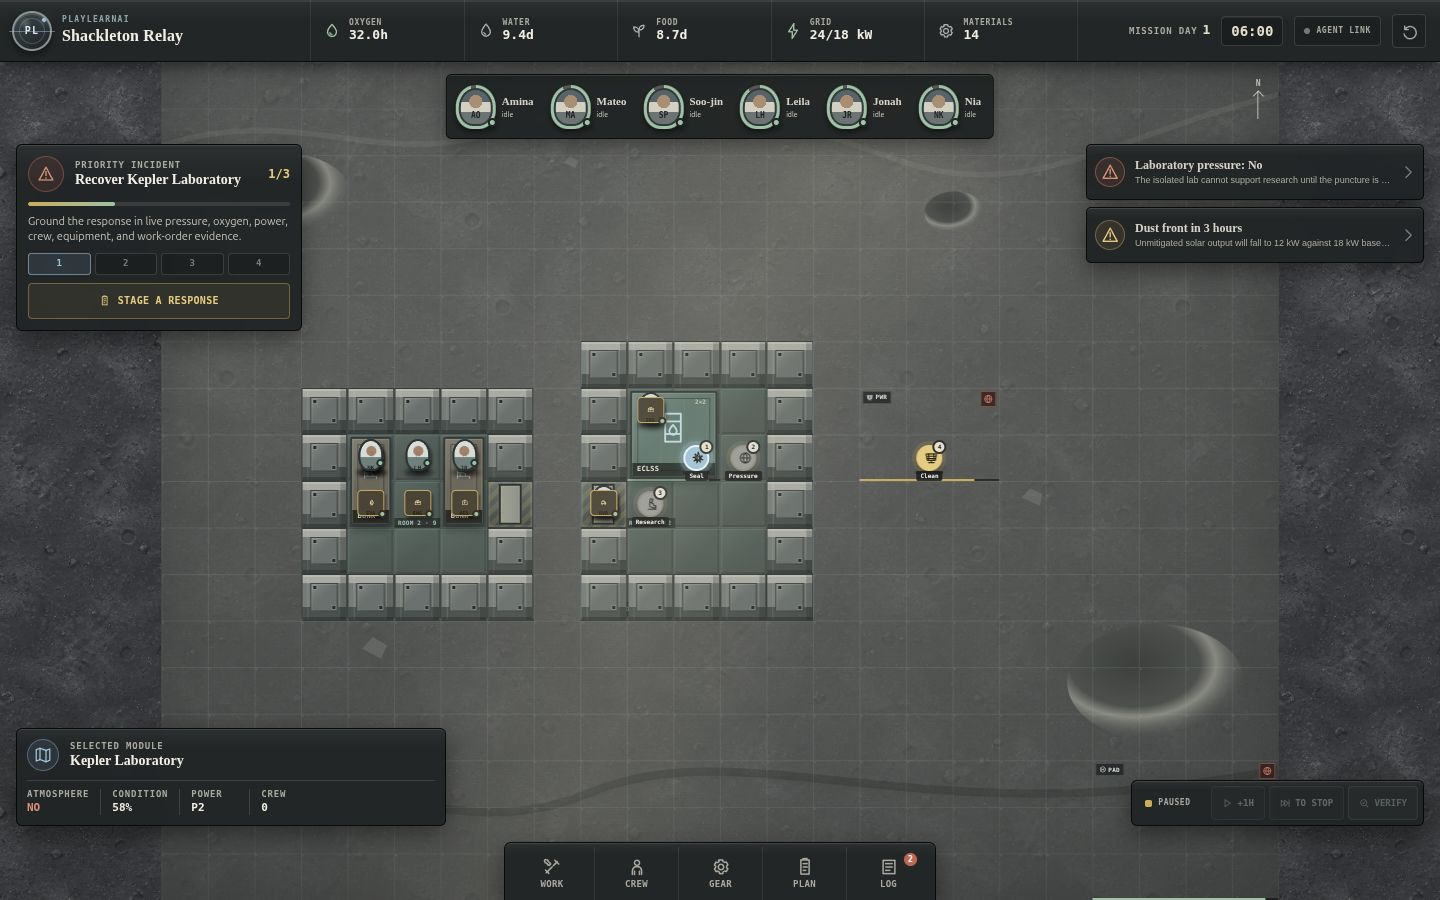
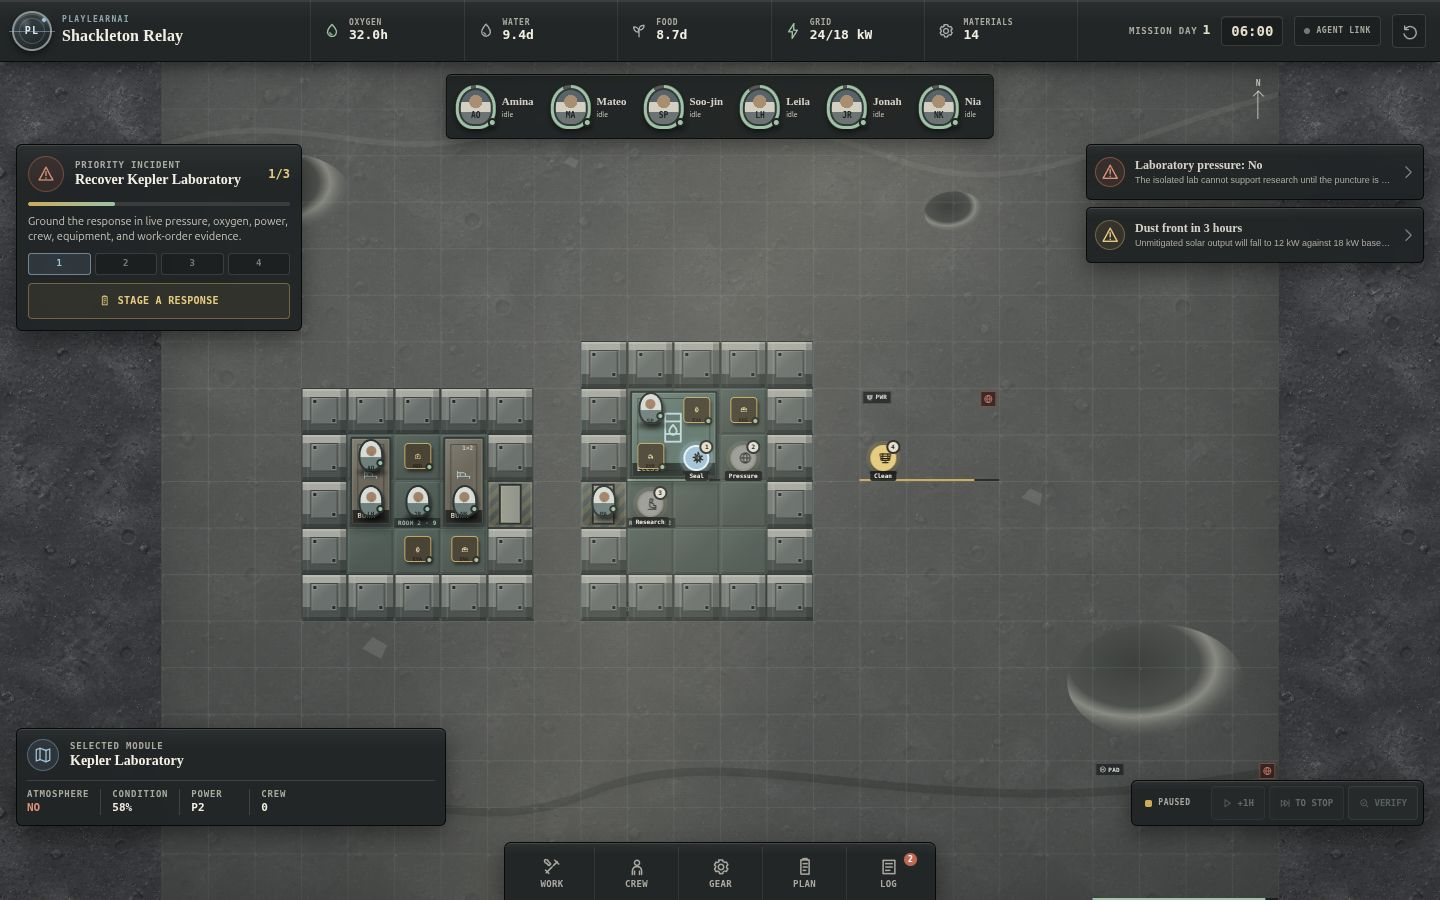
fix: harden freeform operations handoff

diff --git a/src/components/MoonbaseMap.tsx b/src/components/MoonbaseMap.tsx
@@ -362,11 +362,69 @@ export function MoonbaseMap({
   const moduleAt = (location: LocationId) =>
     modules.find((candidate) => candidate.location === location) ?? modules[0]
 
-  const markerPosition = (location: LocationId, index: number, lane = 0): CSSProperties => {
+  const customMarkerCells = new Map<string, GridPoint>()
+  if (constructionLayout) {
+    const occupied = new Set<string>()
+    const boundaryCells = new Set(
+      constructionLayout.boundaries.map((boundary) => `${boundary.x}:${boundary.y}`),
+    )
+    const roomCells = detectRooms(constructionLayout).flatMap((room) => room.cells)
+    const openCells = Array.from(
+      { length: constructionLayout.width * constructionLayout.height },
+      (_, index) => ({
+        x: index % constructionLayout.width,
+        y: Math.floor(index / constructionLayout.width),
+      }),
+    ).filter((cell) => !boundaryCells.has(`${cell.x}:${cell.y}`))
+    const fallbackCells = [...roomCells, ...openCells]
+
+    const allocateMarker = (
+      key: string,
+      location: LocationId,
+      preferredOffset: number,
+    ) => {
+      const preferred = getModuleWalkableCells(moduleAt(location))
+      const offset = preferred.length > 0 ? preferredOffset % preferred.length : 0
+      const candidates = [
+        ...preferred.slice(offset),
+        ...preferred.slice(0, offset),
+        ...fallbackCells,
+      ]
+      const seen = new Set<string>()
+      const cell = candidates.find((candidate) => {
+        const cellKey = `${candidate.x}:${candidate.y}`
+        if (seen.has(cellKey)) return false
+        seen.add(cellKey)
+        return !occupied.has(cellKey)
+      })
+      if (!cell) return
+      occupied.add(`${cell.x}:${cell.y}`)
+      customMarkerCells.set(key, cell)
+    }
+
+    crew.forEach((member, index) => allocateMarker(`crew:${member.id}`, member.location, index))
+    equipment.forEach((item, index) => allocateMarker(
+      `equipment:${item.id}`,
+      item.location,
+      crew.length + index,
+    ))
+    workOrders.forEach((order, index) => allocateMarker(
+      `work:${order.id}`,
+      order.location,
+      crew.length + equipment.length + index,
+    ))
+  }
+
+  const markerPosition = (
+    markerKey: string,
+    location: LocationId,
+    index: number,
+    lane = 0,
+  ): CSSProperties => {
     const module = moduleAt(location)
     const walkableCells = getModuleWalkableCells(module)
     const slot = Math.max(0, index + lane * 2)
-    const cell = walkableCells[slot % walkableCells.length]
+    const cell = customMarkerCells.get(markerKey) ?? walkableCells[slot % walkableCells.length]
     return {
       gridColumn: `${cell.x + 1} / span 1`,
       gridRow: `${cell.y + 1} / span 1`,
@@ -655,7 +713,7 @@ export function MoonbaseMap({
               onInspectModule(module.id)
               onSelectWorkOrder?.(order.id)
             }}
-            style={markerPosition(order.location, ordinal + locationPopulation(order.location), 2)}
+            style={markerPosition(`work:${order.id}`, order.location, ordinal + locationPopulation(order.location), 2)}
             title={`${order.label} — ${words(order.status)}`}
             type="button"
           >
@@ -688,7 +746,7 @@ export function MoonbaseMap({
               onInspectModule(module.id)
               onSelectCrew?.(member.id)
             }}
-            style={markerPosition(member.location, ordinal)}
+            style={markerPosition(`crew:${member.id}`, member.location, ordinal)}
             title={`${member.name} — ${words(member.status)}`}
             type="button"
           >
@@ -725,7 +783,7 @@ export function MoonbaseMap({
               onInspectModule(module.id)
               onSelectEquipment?.(item.id)
             }}
-            style={markerPosition(item.location, ordinal + locationPopulation(item.location), 1)}
+            style={markerPosition(`equipment:${item.id}`, item.location, ordinal + locationPopulation(item.location), 1)}
             title={`${item.name} — ${words(item.status)} at ${module.name}`}
             type="button"
           >

diff --git a/src/game/construction.ts b/src/game/construction.ts
@@ -219,6 +219,16 @@ export const getWorkstationCells = (
   workstation: Pick<WorkstationPlacement, 'origin' | 'size' | 'rotation'>,
 ): GridPoint[] => {
   const footprint = getWorkstationFootprintSize(workstation)
+  if (
+    !Number.isSafeInteger(footprint.width) ||
+    !Number.isSafeInteger(footprint.height) ||
+    footprint.width <= 0 ||
+    footprint.height <= 0 ||
+    footprint.width > CONSTRUCTION_GRID_WIDTH ||
+    footprint.height > CONSTRUCTION_GRID_HEIGHT
+  ) {
+    return []
+  }
   return Array.from({ length: footprint.width * footprint.height }, (_, index) => ({
     x: workstation.origin.x + (index % footprint.width),
     y: workstation.origin.y + Math.floor(index / footprint.width),
@@ -287,6 +297,17 @@ export const validateWorkstationPlacement = (
       cells: [],
       code: 'invalid_workstation',
       error: 'Workstations require an id, type, integer origin, positive integer size, and quarter-turn rotation.',
+    }
+  }
+
+  const footprint = getWorkstationFootprintSize(workstation)
+  if (footprint.width > layout.width || footprint.height > layout.height) {
+    return {
+      valid: false,
+      cells: [],
+      code: 'out_of_bounds',
+      error: `Workstation ${workstation.id} is larger than the ${layout.width}x${layout.height} grid.`,
+      conflictingCell: { ...workstation.origin },
     }
   }
 

diff --git a/src/game/construction.test.ts b/src/game/construction.test.ts
@@ -151,6 +151,28 @@ describe('freeform boundary painting', () => {
 })
 
 describe('free-standing workstation placement', () => {
+  it('rejects enormous footprints without allocating their declared area', () => {
+    const layout = createConstructionLayout()
+    const oversized = {
+      id: 'oversized-live-input',
+      type: 'storage-rack',
+      origin: { x: 0, y: 0 },
+      size: { width: 2 ** 32, height: 1 },
+      rotation: 0 as const,
+    }
+
+    expect(validateWorkstationPlacement(layout, oversized)).toMatchObject({
+      valid: false,
+      code: 'out_of_bounds',
+      cells: [],
+    })
+    expect(placeWorkstation(layout, oversized)).toMatchObject({
+      ok: false,
+      code: 'out_of_bounds',
+    })
+    expect(getWorkstationCells(oversized)).toEqual([])
+  })
+
   it('rotates multi-cell footprints and rejects boundary, overlap, and bounds conflicts', () => {
     let layout = createConstructionLayout()
     layout = layoutFrom(paintBoundaryCell(layout, { x: 4, y: 3 }, 'wall'))

diff --git a/src/App.test.tsx b/src/App.test.tsx
@@ -356,6 +356,13 @@ describe('freeform settlement builder', () => {
       layout.boundaries.length,
     )
     expect(operationsMap.querySelector('[data-freeform-workstation="life-support"]')).toBeVisible()
+    const operationalTokens = operationsMap.querySelectorAll<HTMLElement>(
+      '.crew-marker, .equipment-marker, .work-hotspot',
+    )
+    const operationalTokenCells = new Set(
+      [...operationalTokens].map((token) => `${token.style.gridColumn}|${token.style.gridRow}`),
+    )
+    expect(operationalTokenCells.size).toBe(operationalTokens.length)
     expect(operations.modules.find((module) => module.id === 'module-laboratory')?.position).toEqual({
       x: 9,
       y: 2,
